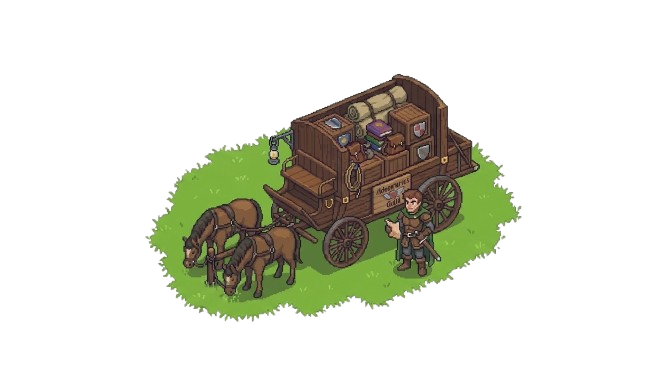
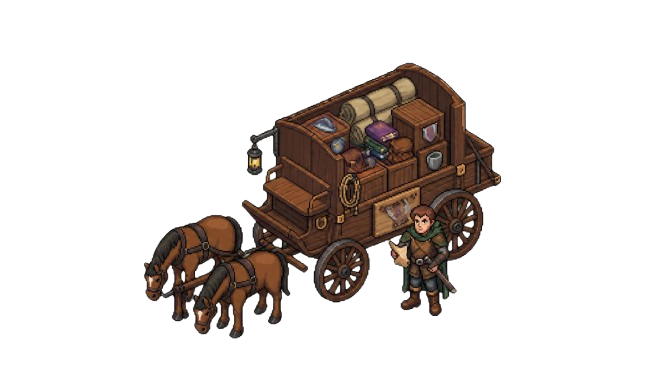
some adjustments

Changed region(s): [[0.2102, 0.1467, 0.7808, 0.9093]]

diff --git a/src/pages/Fortress.jsx b/src/pages/Fortress.jsx
@@ -1,10 +1,14 @@
-import { useEffect } from "react";
+import { useEffect, useState } from "react";
 import LeaveButton from "./Components/LeaveButton";
 import { useInventory } from "../context/InventoryContext";
-import guildBg from "./GameComponents/assets/guild.jpg";
+import bgImg from "./FortressComponents/assets/fortress.png";
+import charImg from "./FortressComponents/assets/stefan.png";
+import "./FortressComponents/Fortress.css"
 
 export default function Fortress() {
     const { markLocationVisited } = useInventory();
+    const [description, setDescription] = useState(true);
+    const [dialogueStep, setDialogueStep] = useState(0);
 
     useEffect(() => {
         markLocationVisited("castle");
@@ -16,20 +20,19 @@ export default function Fortress() {
                 width: "100vw",
                 height: "100vh",
                 position: "relative",
-                backgroundImage: `url(${guildBg})`,
+                backgroundImage: `url(${bgImg})`,
                 backgroundSize: "cover",
                 backgroundPosition: "center",
                 display: "flex",
                 flexDirection: "column",
                 alignItems: "center",
-                justifyContent: "flex-end",
+                justifyContent: "center",
                 paddingBottom: "48px",
                 fontFamily: "'VT323', monospace",
                 userSelect: "none"
             }}
         >
-            <LeaveButton />
-            <div
+            {description && (<div
                 style={{
                     backgroundColor: "rgba(32, 26, 35, 0.9)",
                     border: "4px solid #7b323e",
@@ -37,16 +40,163 @@ export default function Fortress() {
                     padding: "20px 40px",
                     borderRadius: "8px",
                     textAlign: "center",
-                    maxWidth: "560px"
+                    maxWidth: "560px",
+                    position: "relative"
                 }}
             >
                 <h1 style={{ fontSize: "2.6rem", margin: "0 0 10px 0", color: "#ffd8a8", textShadow: "2px 2px #000" }}>
-                    The Grand Castle
+                    The Grand Fortress 
                 </h1>
                 <p style={{ fontSize: "1.4rem", color: "#eab67c", margin: 0 }}>
                     The majestic fortress overlooking Boboc Valley. Its ancient halls hold countless secrets.
                 </p>
-            </div>
+
+                <button
+                    style={{
+                        position: "absolute",
+                        right: 10,
+                        top: 10,
+                        background: "none",
+                        color: "red",
+                        border: "none",
+                        fontSize: "1.25rem",
+                        cursor: "pointer"
+                    }}
+                    onClick={() => setDescription(false)}
+                >x</button>
+            </div> )}
+            {!description && (
+                <>
+                    {/* Stefan */}
+                    <div
+                        style={{
+                            position: "absolute",
+                            left: 0,
+                            bottom: 0,
+                            backgroundImage: `url(${charImg})`,
+                            backgroundRepeat: "no-repeat",
+                            backgroundPosition: "bottom left",
+                            backgroundSize: "contain",
+                            width: 617,
+                            height: 404,
+                            pointerEvents: "none",
+                        }}
+                    />
+
+                    {/* Dialogue box */}
+                    <div
+                        style={{
+                            position: "absolute",
+                            bottom: 30,
+                            left: "50%",
+                            transform: "translateX(-50%)",
+                            width: "min(800px, 80vw)",
+                            minHeight: 170,
+                            boxSizing: "border-box",
+                            padding: "20px 28px",
+                            background: "#211a2b",
+                            border: "4px solid #eab67c",
+                            boxShadow: "0 0 0 4px #382535, 0 8px 20px #000",
+                            borderRadius: 4,
+                            color: "#fff0d0",
+                            fontFamily: "'VT323', monospace",
+                            fontSize: "1.6rem",
+                            zIndex: 10,
+                        }}
+                    >
+                        <h2
+                            style={{
+                                color: "#ffd8a8",
+                                margin: "0 0 10px",
+                                fontSize: "2rem",
+                            }}
+                        >
+                            Stefan
+                        </h2>
+
+                        {dialogueStep === 0 && (
+                            <>
+                                <p>
+                                    Halt! What are you doing here, stranger?
+                                    The Grand Fortress is not a place for the
+                                    unprepared.
+                                </p>
+
+                                <button onClick={() => setDialogueStep(1)}>
+                                    {"I'm here to prove myself."}
+                                </button>
+
+                                <button onClick={() => setDialogueStep(2)}>
+                                    {"I just got lost..."}
+                                </button>
+                            </>
+                        )}
+
+                        {dialogueStep === 1 && (
+                            <>
+                                <p>
+                                    So, you seek to prove your worth? Very well!
+                                    I'll put your skills to the test. Complete
+                                    my challenges if you wish to proceed!
+                                </p>
+
+                                <button onClick={() => setDialogueStep(3)}>
+                                    Bring it on!
+                                </button>
+                            </>
+                        )}
+
+                        {dialogueStep === 2 && (
+                            <>
+                                <p>
+                                    Lost? How convenient! Nobody wanders into
+                                    this fortress by accident. You'll have to
+                                    prove you're worthy of being here!
+                                </p>
+
+                                <button onClick={() => setDialogueStep(3)}>
+                                    Fine, test me.
+                                </button>
+                            </>
+                        )}
+
+                        {dialogueStep === 3 && (
+                            <>
+                                <p>
+                                    Excellent! Your trials will test your
+                                    reflexes, memory, and musical talent.
+                                    Are you ready to begin?
+                                </p>
+
+                                <button
+                                    onClick={() => {
+                                        setDialogueStep(4);
+                                    }}
+                                >
+                                    Start the trials!
+                                </button>
+                            </>
+                        )}
+
+                        {dialogueStep === 4 && (
+                            <>
+                                <p>
+                                    Your first challenge awaits! Prepare yourself,
+                                    adventurer!
+                                </p>
+
+                                <button
+                                    onClick={() => {
+                                        // TODO: Start your first mini-game here
+                                    }}
+                                >
+                                    Begin Challenge 1
+                                </button>
+                            </>
+                        )}
+                    </div>
+                </>
+            )}
         </div>
     );
 }

diff --git a/src/pages/Game.jsx b/src/pages/Game.jsx
@@ -121,11 +121,7 @@ export default function Game() {
                 })();
 
                 if (isNearWindmill) {
-                    if (allFourVisited) {
-                        navigate("/hideout");
-                    } else {
-                        showNotification("The Secret Hideout entrance is sealed! Visit all 4 locations first.", "info");
-                    }
+                        showNotification("Today seems especially windy!", "info");
                     return;
                 }
 
@@ -142,7 +138,7 @@ export default function Game() {
                         }
                         return;
                     }
-                    if (nearbyObject.type === "windmill") {
+                    if (nearbyObject.type === "carriage") {
                         if (allFourVisited) {
                             navigate("/hideout");
                         } else {
@@ -204,9 +200,10 @@ export default function Game() {
                     }
                 }
 
-                const blocked = objectsData.some(obj => 
-                    obj.solid && isColliding(next, obj)
-                );
+                const blocked = objectsData.some(obj => {
+                    if (obj.type == "carriage" && !allFourVisited) return false;
+                    return obj.solid && isColliding(next, obj)
+                });
                 return blocked ? prev : next;
             })
 
@@ -297,6 +294,8 @@ export default function Game() {
       })}
 
       {objectsData.map((obj, i) => {
+        if (!allFourVisited && obj.type == "carriage") return;
+
         const playerIsInFront =
             player.pos.y > obj.pos.y + obj.height / 1.5;
 
@@ -320,11 +319,14 @@ export default function Game() {
         if (obj.type === "chest" && chestUnlocked) {
             objectBadge = "Unlocked!";
         } else if (obj.type === "windmill") {
-            objectBadge = allFourVisited ? "★ Secret Hideout ★" : null;
+            //objectBadge = allFourVisited ? "★ Secret Hideout ★" : null;
         }
 
         const handleObjectClick = () => {
+            if (!isNear(player, obj, 50)) return;
             if (obj.type === "windmill") {
+                showNotification("Today seems especially windy!", "info");
+                return; 
                 if (allFourVisited) {
                     navigate("/hideout");
                 } else {

diff --git a/src/pages/data/itemsData.js b/src/pages/data/itemsData.js
@@ -5,6 +5,7 @@ import monsterImg from "../FirstHouseComponents/assets/monster_can.svg";
 import soupImg from "../FirstHouseComponents/assets/soup_bowl.svg";
 import waffleImg from "../FirstHouseComponents/assets/donkey_waffle.svg";
 import rezePlushImg from "../FirstHouseComponents/assets/reze_plush.png";
+import rockstarImg from "../TentComponents/assets/rockstar.png";
 
 export const INVENTORY_SIZE = 9;
 
@@ -26,7 +27,7 @@ export const ITEMS_CATALOG = {
     suspicious_ring: {
         id: "suspicious_ring",
         name: "Suspicious Ring",
-        description: "A shiny ring found inside Victor's tent.",
+        description: "A shiny ring that turns you invisible",
         icon: ringImg,
         usableOn: []
     },
@@ -56,6 +57,13 @@ export const ITEMS_CATALOG = {
         name: "Reze Plushie",
         description: "A cute Reze plushie.",
         icon: rezePlushImg,
+        usableOn: []
+    },
+    star_shaped_rock: {
+        id: "star_shaped_rock",
+        name: "Star-shaped Rock",
+        description: "A precious stone obtained by completing the rhythm mini-game",
+        icon: rockstarImg,
         usableOn: []
     }
 };

diff --git a/src/App.jsx b/src/App.jsx
@@ -4,7 +4,6 @@ import SecondHouse from './pages/SecondHouse'
 import Tent from './pages/Tent'
 import Fortress from './pages/Fortress'
 import SecretHideout from './pages/SecretHideout'
-import BeatmapEditor from './pages/TentComponents/BeatmapEditor'
 import InventorySidebar from './pages/GameComponents/InventorySidebar'
 import Taskbar from './pages/GameComponents/Taskbar'
 import { InventoryProvider } from './context/InventoryContext'
@@ -22,7 +21,6 @@ function App() {
         <Route path='/tent' element={<Tent/>}/>
         <Route path='/fortress' element={<Fortress/>}/>
         <Route path='/hideout' element={<SecretHideout/>}/>
-        <Route path='/beatmapeditor' element={<BeatmapEditor/>}/>
       </Routes>
     </InventoryProvider>
   )

diff --git a/src/pages/data/imageRegistry.js b/src/pages/data/imageRegistry.js
@@ -5,6 +5,7 @@ import treeImg from "../GameComponents/assets/Trees_animation.png";
 import windmillImg from "../GameComponents/assets/Windmill.png";
 import tentImg  from "../GameComponents/assets/Tent.png";
 import chestImg  from "../GameComponents/assets/Chest.png";
+import carriageImg  from "../GameComponents/assets/carriage.png";
 
 const imageRegistry = {
     house: houseImg,
@@ -14,6 +15,7 @@ const imageRegistry = {
     tree: treeImg,
     tent: tentImg,
     chest: chestImg,
+    carriage: carriageImg,
 };
 
 export default imageRegistry;

diff --git a/src/pages/SecretHideout.jsx b/src/pages/SecretHideout.jsx
@@ -1,7 +1,7 @@
 import { useEffect } from "react";
 import LeaveButton from "./Components/LeaveButton";
 import { useInventory } from "../context/InventoryContext";
-import hideoutBg from "./TentComponents/assets/tentbgdark.jpeg";
+import hideoutBg from "./GameComponents/assets/guild.jpg";
 
 export default function SecretHideout() {
     const { markLocationVisited } = useInventory();

diff --git a/src/pages/FortressComponents/Fortress.css b/src/pages/FortressComponents/Fortress.css
@@ -1,0 +1,17 @@
+
+.fortress-dialogue button {
+    display: block;
+    margin: 8px 0;
+    padding: 6px 12px;
+    font-family: 'VT323', monospace;
+    font-size: 1.3rem;
+    color: #fff0d0;
+    background: #493047;
+    border: 2px solid #eab67c;
+    cursor: pointer;
+}
+
+.fortress-dialogue button:hover {
+    background: #7b323e;
+    color: #ffffff;
+}

diff --git a/src/pages/TentComponents/RhythmGame.jsx b/src/pages/TentComponents/RhythmGame.jsx
@@ -1,4 +1,5 @@
 import { useEffect, useRef, useState } from "react";
+import { useInventory } from "../../context/InventoryContext";
 
 const KEYS = ["j", "k", "l", ";"];
 const HIT_LINE = 320;
